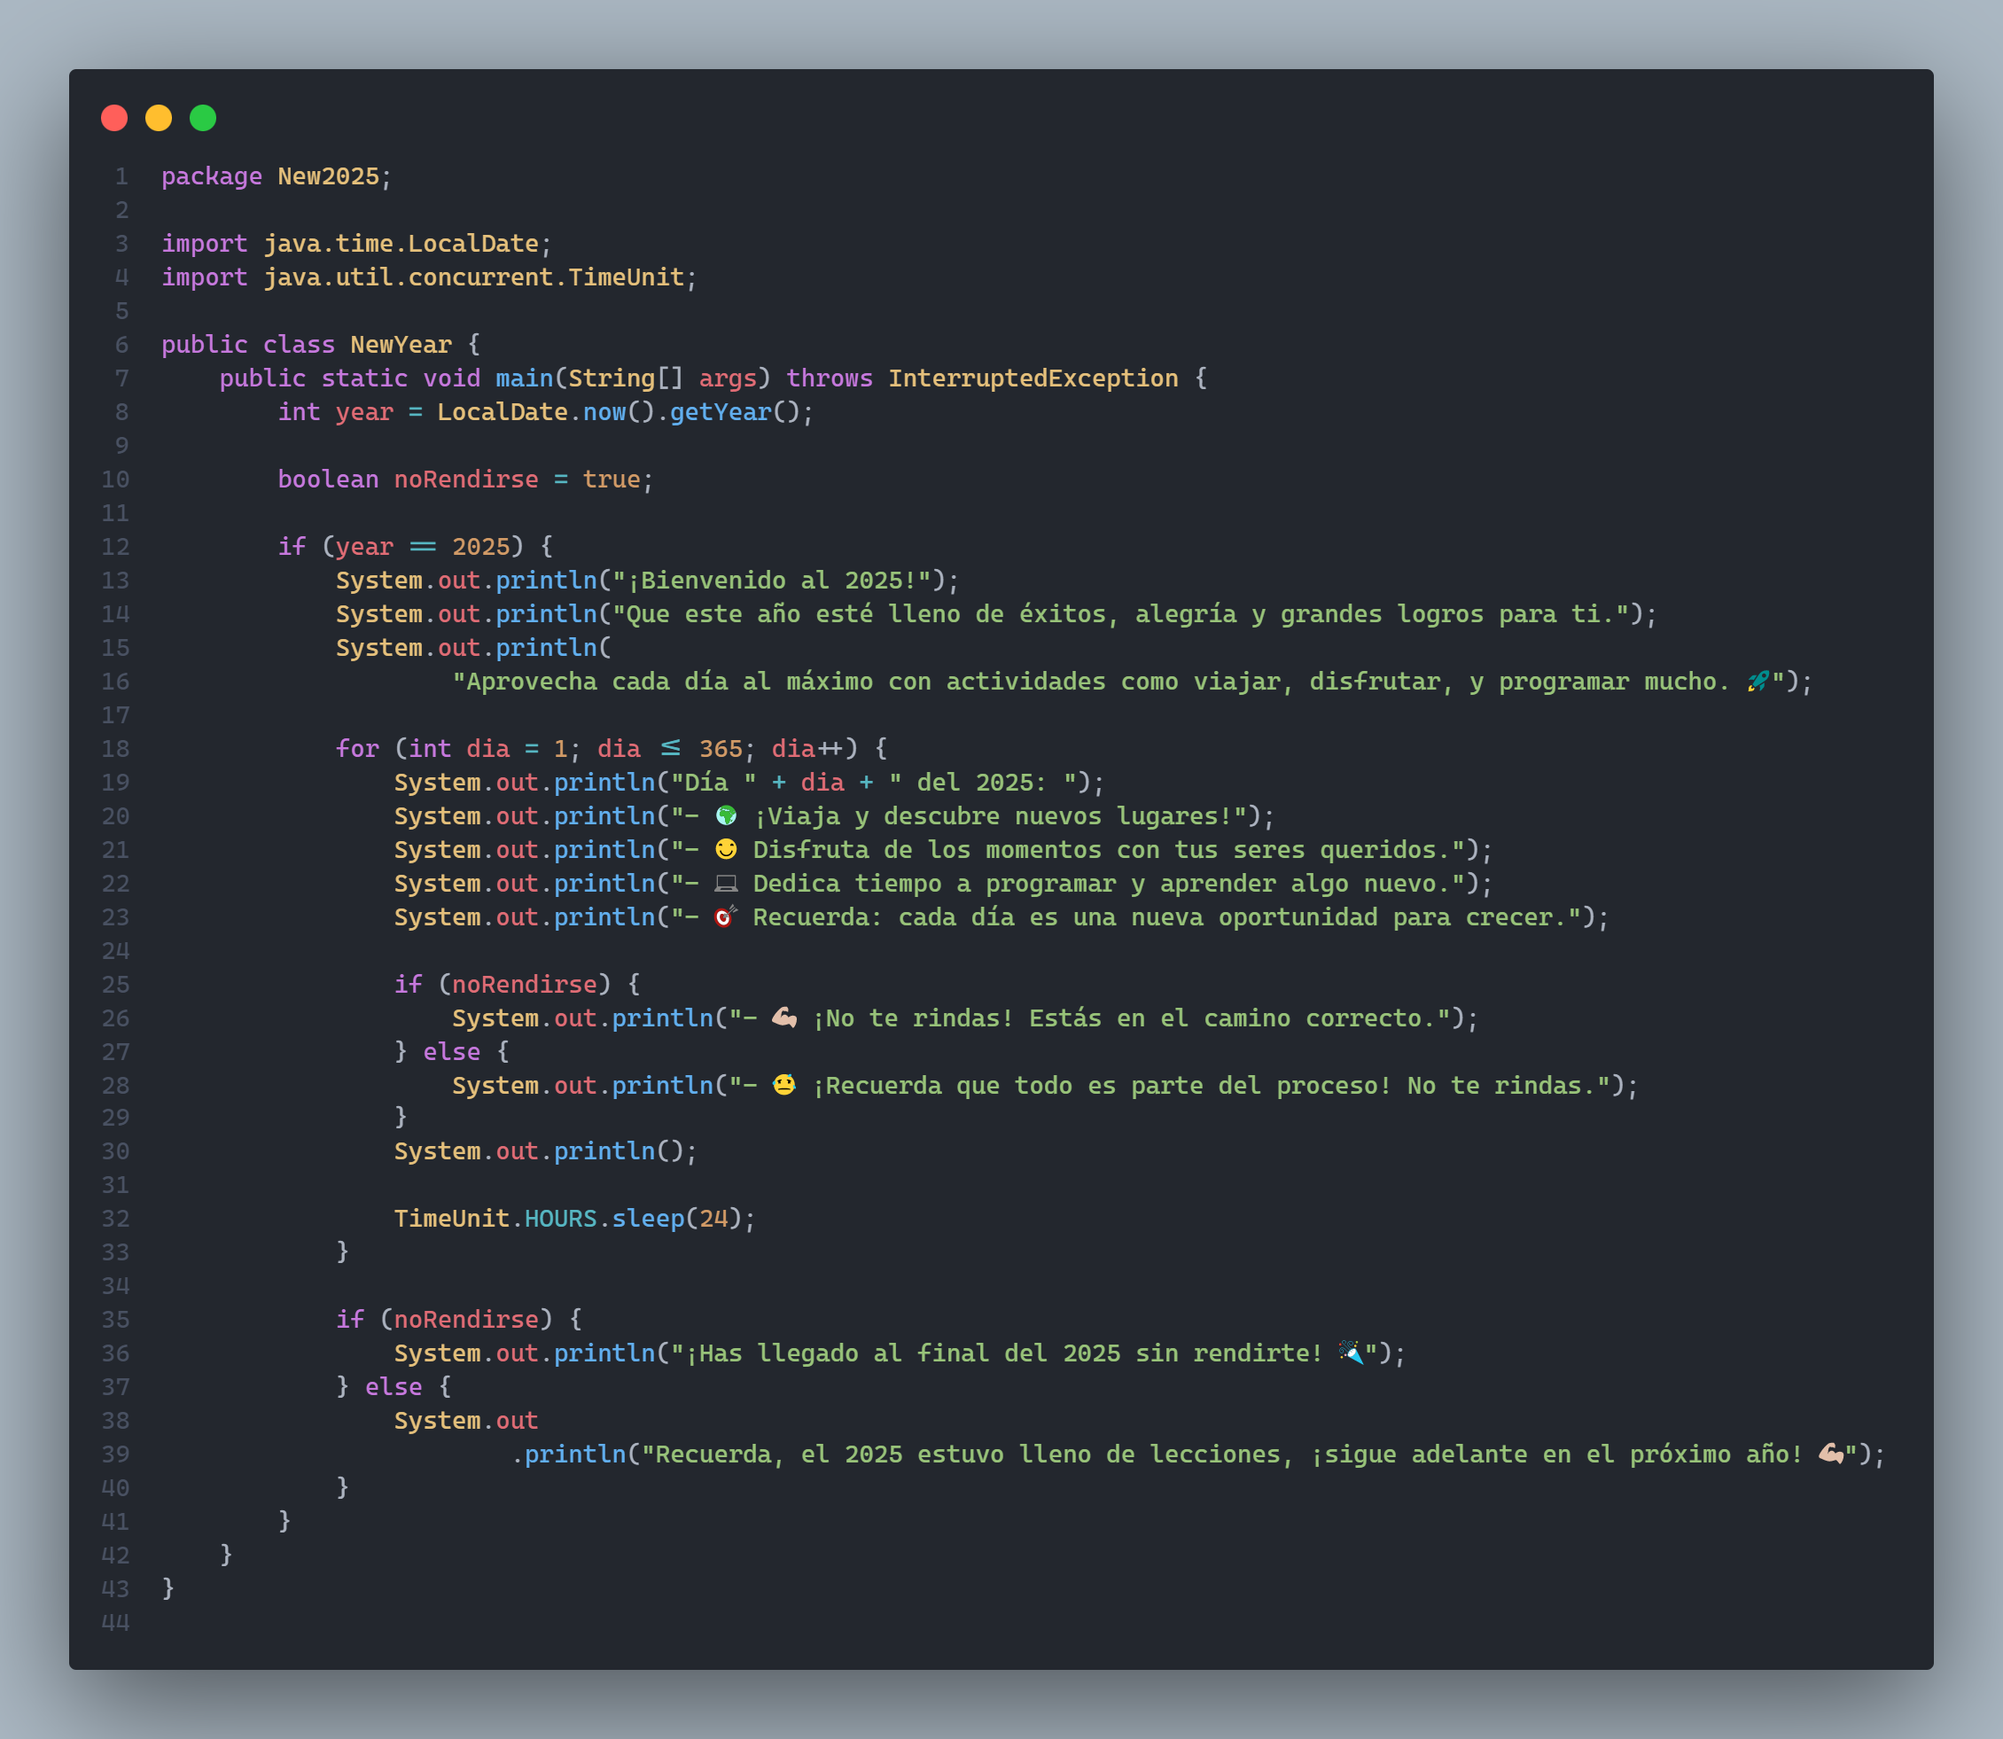
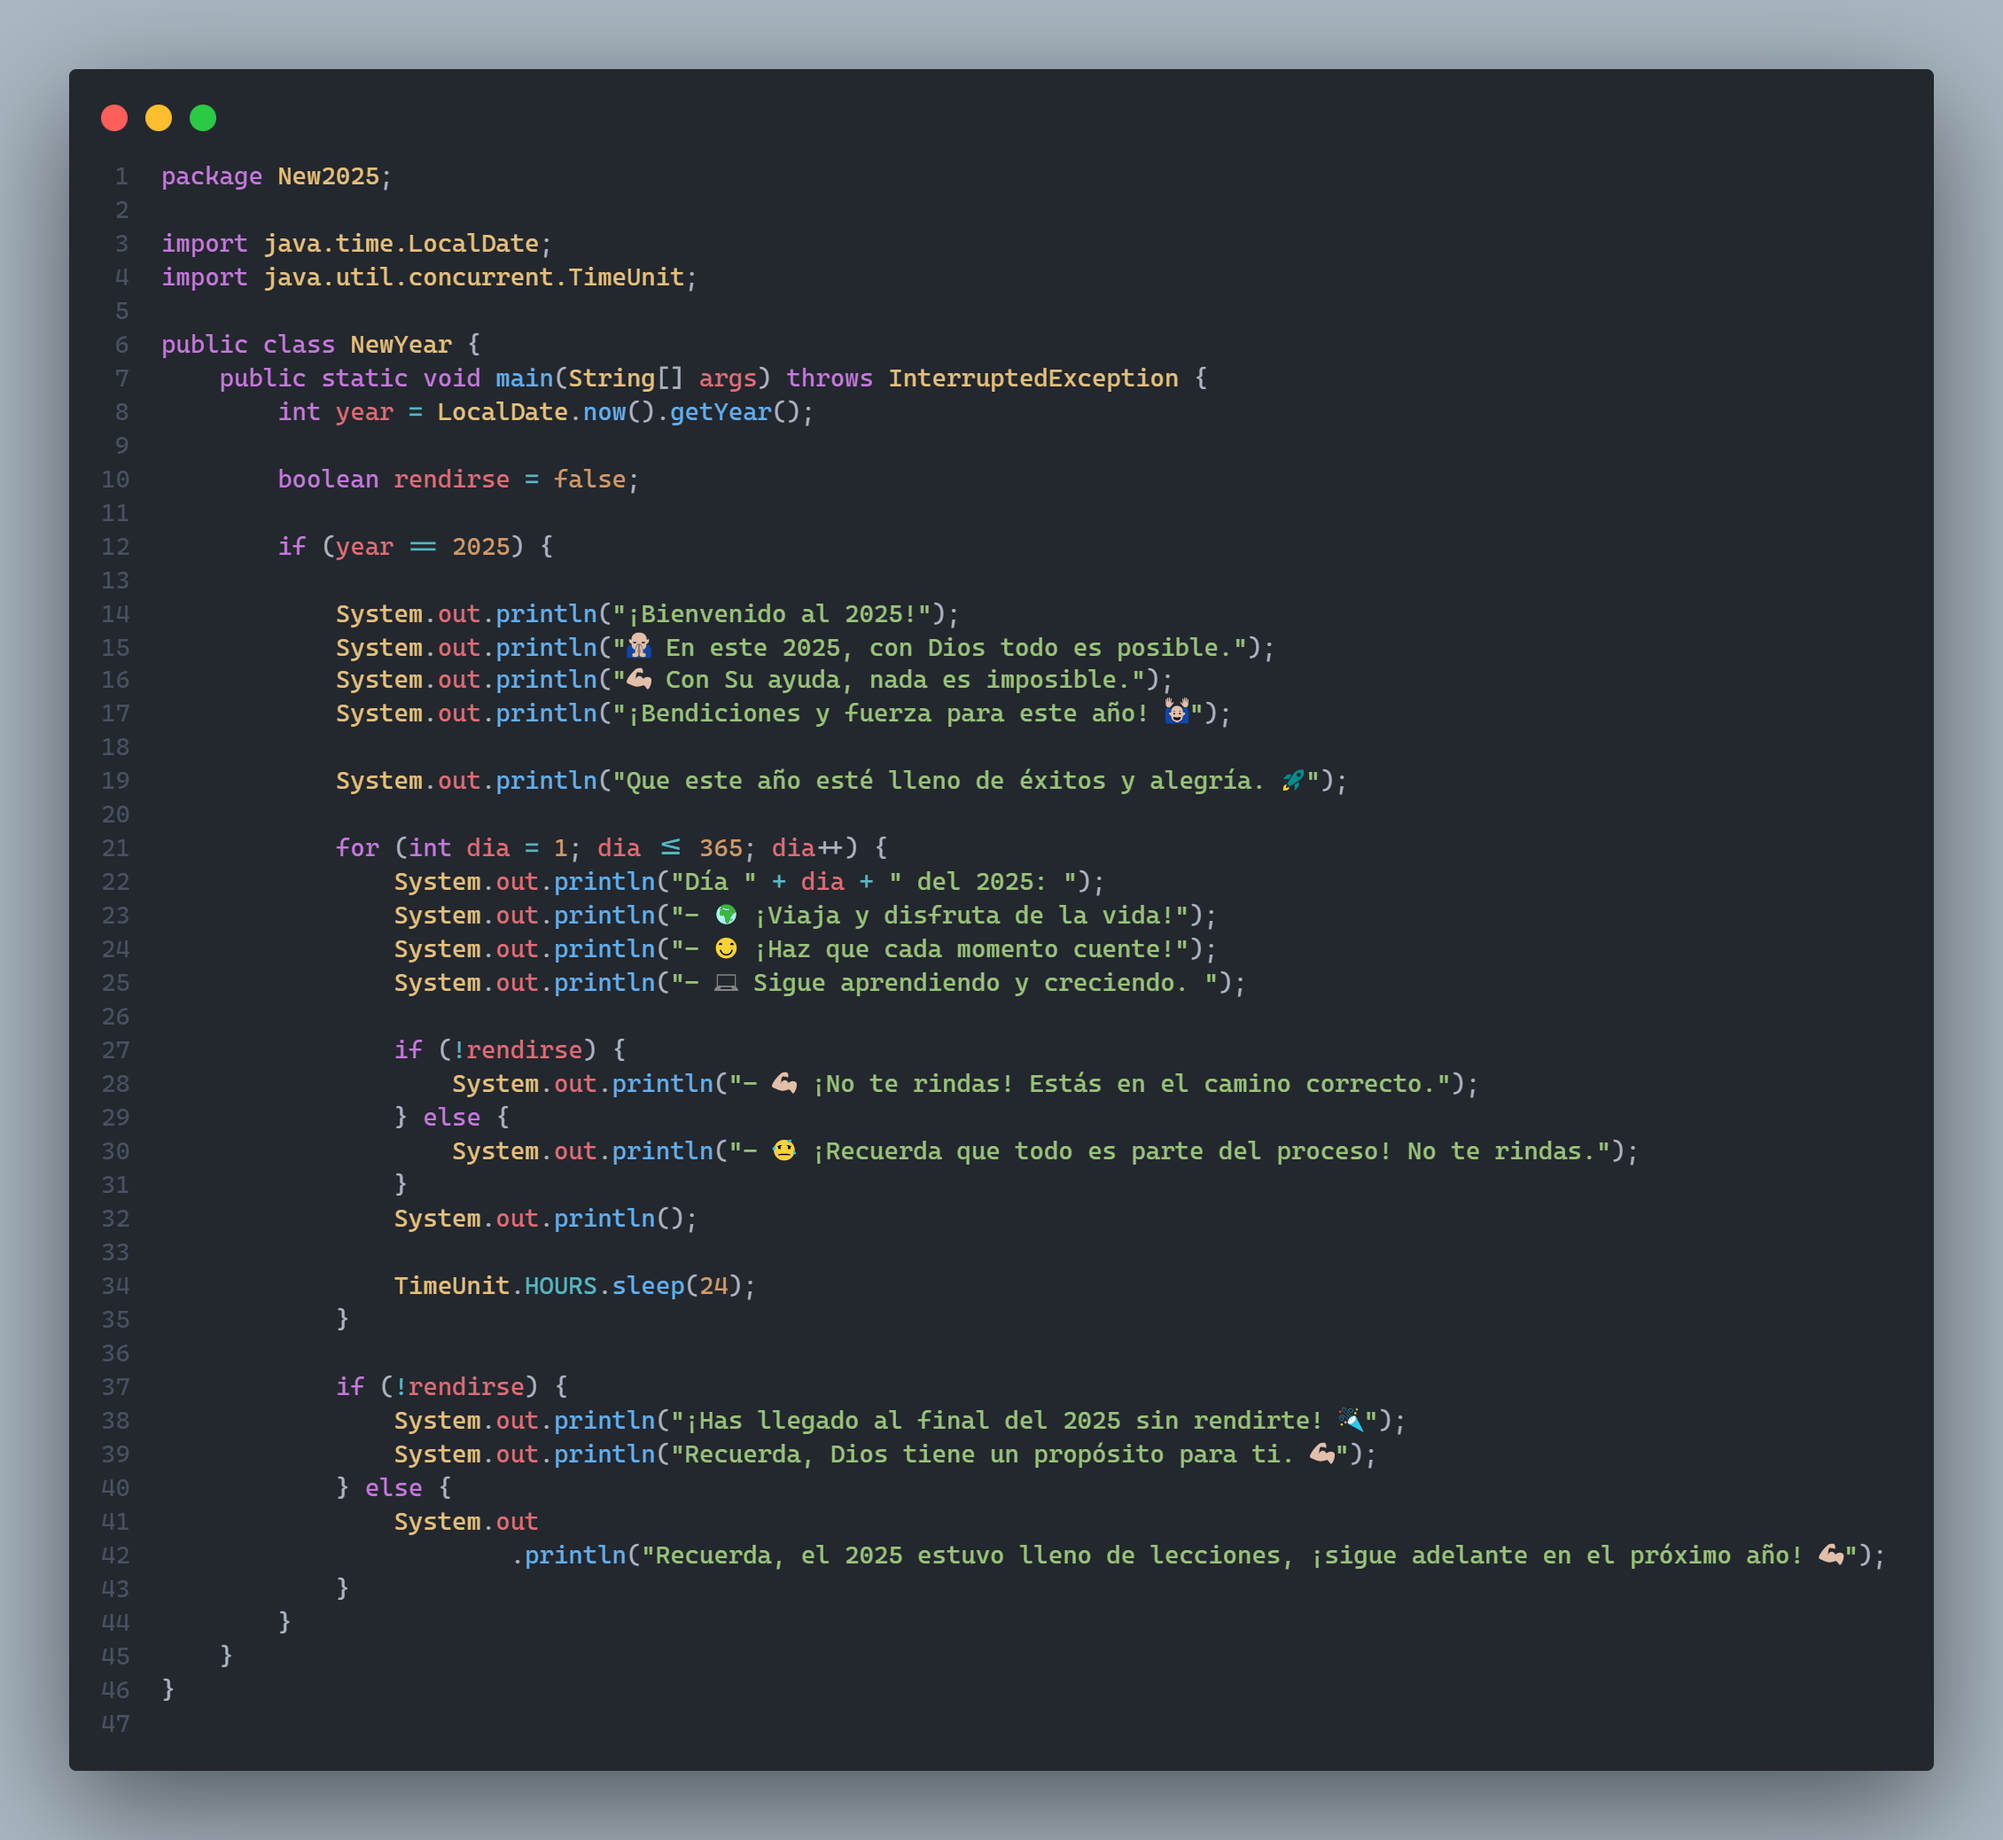
FELIZ 2025 NEW

diff --git a/src/New2025/NewYear.java b/src/New2025/NewYear.java
@@ -7,22 +7,24 @@ public class NewYear {
     public static void main(String[] args) throws InterruptedException {
         int year = LocalDate.now().getYear();
 
-        boolean noRendirse = true;
+        boolean rendirse = false;
 
         if (year == 2025) {
+
             System.out.println("¡Bienvenido al 2025!");
-            System.out.println("Que este año esté lleno de éxitos, alegría y grandes logros para ti.");
-            System.out.println(
-                    "Aprovecha cada día al máximo con actividades como viajar, disfrutar, y programar mucho. 🚀");
+            System.out.println("🙏 En este 2025, con Dios todo es posible.");
+            System.out.println("💪 Con Su ayuda, nada es imposible.");
+            System.out.println("¡Bendiciones y fuerza para este año! 🙌");
+
+            System.out.println("Que este año esté lleno de éxitos y alegría. 🚀");
 
             for (int dia = 1; dia <= 365; dia++) {
                 System.out.println("Día " + dia + " del 2025: ");
-                System.out.println("- 🌍 ¡Viaja y descubre nuevos lugares!");
-                System.out.println("- 😊 Disfruta de los momentos con tus seres queridos.");
-                System.out.println("- 💻 Dedica tiempo a programar y aprender algo nuevo.");
-                System.out.println("- 🎯 Recuerda: cada día es una nueva oportunidad para crecer.");
+                System.out.println("- 🌍 ¡Viaja y disfruta de la vida!");
+                System.out.println("- 😊 ¡Haz que cada momento cuente!");
+                System.out.println("- 💻 Sigue aprendiendo y creciendo. ");
 
-                if (noRendirse) {
+                if (!rendirse) {
                     System.out.println("- 💪 ¡No te rindas! Estás en el camino correcto.");
                 } else {
                     System.out.println("- 😓 ¡Recuerda que todo es parte del proceso! No te rindas.");
@@ -32,8 +34,9 @@ public class NewYear {
                 TimeUnit.HOURS.sleep(24);
             }
 
-            if (noRendirse) {
+            if (!rendirse) {
                 System.out.println("¡Has llegado al final del 2025 sin rendirte! 🎉");
+                System.out.println("Recuerda, Dios tiene un propósito para ti. 💪");
             } else {
                 System.out
                         .println("Recuerda, el 2025 estuvo lleno de lecciones, ¡sigue adelante en el próximo año! 💪");
